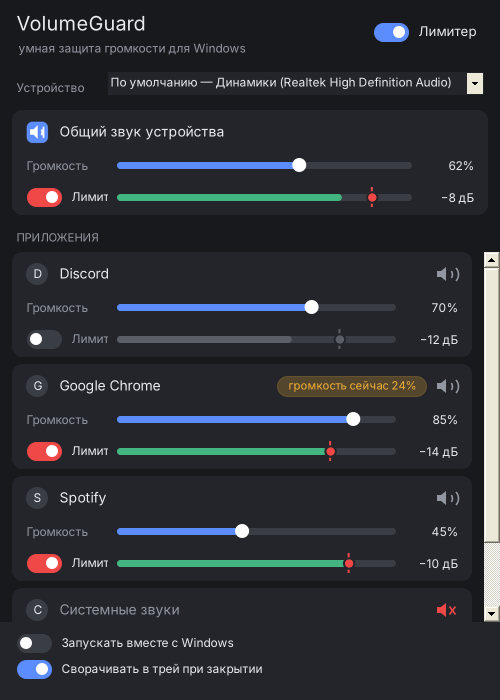
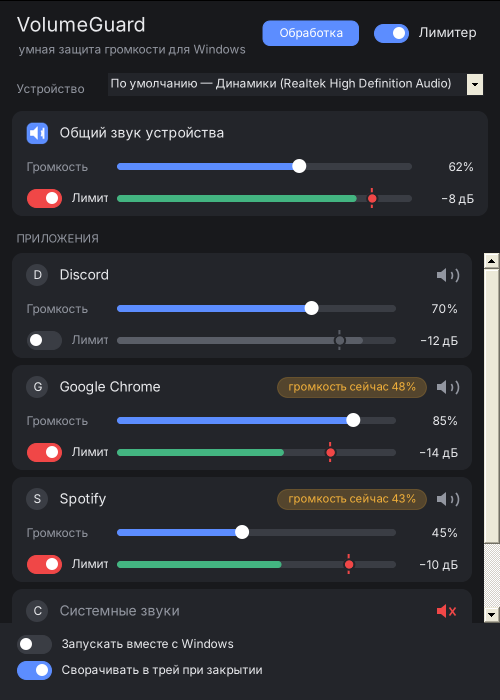
VolumeGuard 2.0.0: sound processing (beta) [release]
Game audio can now be routed through VolumeGuard: 5 ms lookahead limiter
with Comfort / Tactical modes, clock-drift compensation, auto-reconnect.
README, CHANGELOG, release notes, native/README, screenshots.

Claude-Session: https://claude.ai/code/session_014woEXJQBV3DgrX3vU1tX8E

diff --git a/src/MainForm.cs b/src/MainForm.cs
@@ -75,7 +75,7 @@ namespace VolumeGuard
             enabledSw.CheckedChanged += delegate { SetEnabled(enabledSw.Checked); };
             // sound processing (2.0): opens its own window
             processing = new Processing(s, demo);
-            procBtn.Text = "Обработка звука";
+            procBtn.Text = "Обработка";   // short: must not cover the subtitle
             procBtn.Font = Theme.Font(9f);
             procBtn.FitWidth();
             procBtn.Height = Theme.D(26);   // stays above the subtitle line

diff --git a/src/AssemblyInfo.cs b/src/AssemblyInfo.cs
@@ -7,6 +7,6 @@ using System.Reflection;
 [assembly: AssemblyDescription("Per-app volume limiter for Windows")]
 [assembly: AssemblyCompany("Nikita Bainov")]
 [assembly: AssemblyCopyright("Copyright (c) 2026 Nikita Bainov (qqkillua). MIT License.")]
-[assembly: AssemblyVersion("1.1.0.0")]
-[assembly: AssemblyFileVersion("1.1.0.0")]
-[assembly: AssemblyInformationalVersion("1.1.0")]
+[assembly: AssemblyVersion("2.0.0.0")]
+[assembly: AssemblyFileVersion("2.0.0.0")]
+[assembly: AssemblyInformationalVersion("2.0.0")]

diff --git a/.github/release-notes.md b/.github/release-notes.md
@@ -1,14 +1,26 @@
-**Что нового в 1.1.0**
-- Исправлено: после паузы звук больше не проскакивает мимо лимита — в тишине громкость удерживается.
-- Исправлено: приложение с лимитом стартует сразу с ограниченной громкостью, а не со 100 %.
-- Лимитер реагирует в 5 раз быстрее: каждые 10 мс вместо 50 мс.
-- Меньше памяти в трее, служебные объекты Windows освобождаются сразу.
+**Что нового в 2.0.0 — обработка звука (бета)**
 
+VolumeGuard теперь может пропускать звук игры через себя и обрабатывать его так же, как плагин VolumeGuard Limiter:
+
+- **Лимитер с «взглядом вперёд» на 5 мс** — ни один звук не громче потолка, даже самый первый выстрел.
+- **Comfort** — мягко выравнивает громкость: взрывы тише, тихие звуки чуть громче.
+- **Tactical** — для шутеров: шаги и перезарядка слышнее, выстрелы и взрывы не оглушают. Направление звуков не меняется.
+- Индикаторы входа, выхода и сжатия, задержка показана прямо в окне (обычно 40–60 мс).
+- Подстройка под часы двух устройств и разные частоты — без щелчков; после отключения устройства обработка переподключается сама.
+
+**Как включить:** поставьте [VB-CABLE](https://vb-audio.com/Cable/) (или используйте свободный выход, например HDMI монитора) →
+в «Параметры Windows → Система → Звук → Громкость приложений» направьте игру на «CABLE Input» →
+в VolumeGuard нажмите кнопку «Обработка» вверху окна, выберите «Игра играет в: CABLE Input» и «Слушать в: наушники», включите.
+Подробно — в [README](https://github.com/qqkillua/VolumeGuard#обработка-звука-20-бета).
+
+Обычные функции (лимит громкости приложений) работают как раньше; обработка выключена, пока вы её не включите.
 Полный список изменений — в [CHANGELOG.md](https://github.com/qqkillua/VolumeGuard/blob/main/CHANGELOG.md).
 
 **Как установить**
 1. Скачайте `VolumeGuard.zip` ниже.
 2. До распаковки: правой кнопкой по архиву → «Свойства» → «Разблокировать» → «ОК».
-3. Распакуйте и запустите `VolumeGuard.exe` (старую версию перед этим закройте через значок в трее → «Выход»).
+3. Закройте старую версию (значок в трее → «Выход»), распакуйте и запустите `VolumeGuard.exe`.
+   `vgaudio.dll` должен лежать рядом с exe.
 
-Нужен .NET Framework 4.x (есть в Windows 10 и 11).
+Нужна 64-битная Windows 10/11 и .NET Framework 4.x (уже есть в системе).
+Если что-то не работает — пришлите файл `%APPDATA%\VolumeGuard\audio.log`.

diff --git a/native/README.md b/native/README.md
@@ -1,0 +1,32 @@
+# vgaudio.dll — звуковой движок VolumeGuard 2.0
+
+Берёт звук, который играет устройство-источник (WASAPI loopback), обрабатывает и выводит на другое устройство.
+
+```
+захват (поток, опрос каждые 2 мс) ──► FrameRing ──► DriftResampler ──► Processor ──► вывод (поток по событию WASAPI)
+                                       без блокировок   ±0,5 %, sinc      усиление → Game → лимитер 5 мс
+```
+
+| Файл | Что внутри |
+|---|---|
+| `include/vgaudio.h` | C API для VolumeGuard.exe (`vg_start`, `vg_stop`, `vg_set_params`, `vg_get_status`, `vg_list_devices`) |
+| `src/Engine.cpp` | WASAPI: устройства, потоки, MMCSS «Pro Audio», переподключение, `audio.log` |
+| `src/Bridge.hpp` | Кольцевой буфер, ресемплер с подстройкой под часы, преобразование форматов (float/16/24/32 бит, 1–8 каналов) |
+| `src/Processor.hpp` | Цепочка обработки — та же DSP, что в плагине (`plugin/src/GameDsp.hpp`, `LimiterDsp.hpp`) |
+| `tests/test_bridge.cpp` | 10 минут симуляции: дрейф ±1000 ppm, 44,1/48/96 кГц, дрожание пакетов, пауза 3 с; SNR > 80 дБ |
+| `tests/test_processor.cpp` | Потолок во всех режимах, bypass, весь путь 5.1 int16 → stereo float |
+| `tests/smoke.cpp` | Проверка DLL на Windows (CI) |
+
+**Подстройка часов.** Ошибка буфера e (в секундах) подчиняется e' = дрейф − коррекция; ПИ-регулятор
+(kP 0,54, kI 0,09) даёт собственную частоту 0,3 рад/с и затухание 0,9 — выход на режим за ~15 с без перерегулирования.
+Измерение буфера учитывает время с последнего пакета, иначе пила от пакетов по 10 мс раскачивает регулятор.
+Буфер начинается с 25 мс, растёт на 5 мс после пропуска из-за неровных пакетов и уменьшается на 1 мс за 30 с,
+если запас больше 8 мс не понадобился. Пока игра молчит, движок играет тишину в источник, чтобы Windows
+продолжала отдавать пакеты.
+
+**Сборка:** `./build.sh` (MinGW-w64). Тесты:
+
+```sh
+g++ -O2 -std=c++17 -Isrc tests/test_bridge.cpp -o test_bridge && ./test_bridge
+g++ -O2 -std=c++17 -Isrc -I../plugin/src tests/test_processor.cpp -o test_processor && ./test_processor
+```

diff --git a/CHANGELOG.md b/CHANGELOG.md
@@ -1,5 +1,21 @@
 # Изменения
 
+## 2.0.0
+
+**Новое: обработка звука (бета)**
+- VolumeGuard может пропускать звук игры через себя: игра выводит звук на отдельное устройство
+  (виртуальный кабель или свободный выход), программа обрабатывает его и отдаёт в наушники.
+- Лимитер с «взглядом вперёд» на 5 мс: ни один сэмпл не громче потолка, даже первый выстрел.
+- Режимы Comfort и Tactical (как в плагине VolumeGuard Limiter 1.2): громкие звуки тише, тихие — слышнее,
+  направление звуков не меняется.
+- Настройки: сила, потолок, усиление; индикаторы входа, выхода и сжатия; задержка показана в окне.
+- Подстройка под расхождение часов двух устройств и разные частоты (44,1 / 48 / 96 кГц), без щелчков.
+- После отключения устройства или смены формата обработка переподключается сама.
+- Звуковой движок — отдельная библиотека `vgaudio.dll` (C++, WASAPI), журнал в `%APPDATA%\VolumeGuard\audio.log`.
+
+**Исправлено**
+- Собственный звуковой поток VolumeGuard не показывается в списке приложений.
+
 ## 1.1.0
 
 **Исправлено**
